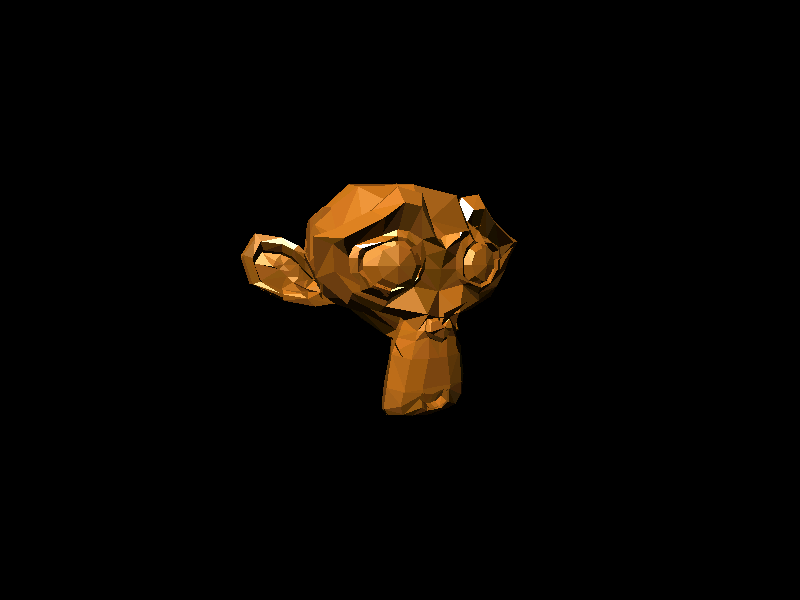
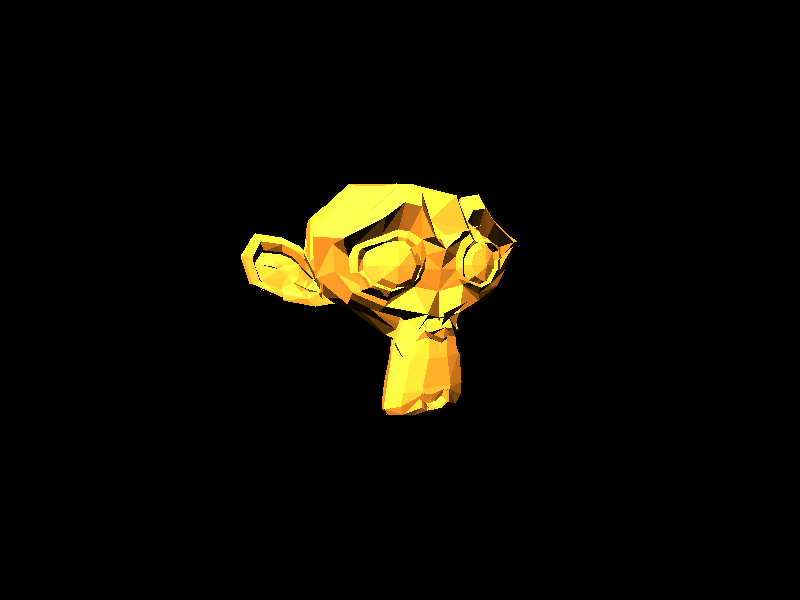
docs: regenerate screenshots, fix cap bug, add perf benchmark
- Fix screenshots.rs to call engine.clear_caps() instead of
  apply_default_caps() so 640x480/800x600 doc scenes aren't rejected
  by the M33-balanced 320x240 cap
- Add benchmark() to screenshots.rs: times wireframe, Blinn-Phong, and
  physics+render at 320x240 over 200 iters and prints min/p50/avg/max
- Regenerate all PNG/GIF assets with the current engine (record/execute
  pipeline, micromath transcendentals, fixed-point z-buffer)
- Add ## Performance section to README with measured desktop simulator
  timings and a summary of v0.2 changes

Changed region(s): [[0.2812, 0.3, 0.6562, 0.69]]

diff --git a/examples/screenshots.rs b/examples/screenshots.rs
@@ -5,12 +5,12 @@
 
 use std::f32::consts::PI;
 use std::fs::File;
+use std::time::Instant;
 
 use embedded_3dgfx::DrawPrimitive;
 use embedded_3dgfx::K3dengine;
 use embedded_3dgfx::renderer::FrameCtx;
 use embedded_3dgfx::command_buffer::CommandBuffer;
-use embedded_3dgfx::config::apply_default_caps;
 use embedded_3dgfx::draw::{
     DitherConfig, FogConfig, draw_zbuffered, draw_zbuffered_with_effects,
     draw_zbuffered_with_textures,
@@ -68,6 +68,8 @@ fn main() {
     gif_bouncing_balls();
     gif_cloth();
     gif_newtons_cradle();
+    // Perf
+    benchmark();
     println!("All assets saved to assets/");
 }
 
@@ -80,7 +82,7 @@ fn capture_wireframe_cube() {
     let mut zbuffer = vec![u32::MAX; W * H];
     let mut commands = CommandBuffer::<4096>::new();
     let mut engine = K3dengine::new(640, 480);
-    apply_default_caps(&mut engine);
+    engine.clear_caps();
     engine.camera.set_position(Point3::new(0.0, 1.2, 3.5));
     engine.camera.set_target(Point3::new(0.0, 0.0, 0.0));
 
@@ -149,7 +151,7 @@ fn capture_blinn_phong() {
     let mut commands = CommandBuffer::<8192>::new();
 
     let mut engine = K3dengine::new(800, 600);
-    apply_default_caps(&mut engine);
+    engine.clear_caps();
     // Camera at +Z. attitude(-PI/2, yaw, 0) rotates Suzanne's -Y face to +Z, facing this camera.
     engine.camera.set_position(Point3::new(0.0, 0.8, 8.0));
     engine.camera.set_target(Point3::new(0.0, -0.3, 0.0));
@@ -259,7 +261,7 @@ fn capture_physics() {
     let mut commands = CommandBuffer::<16384>::new();
 
     let mut engine = K3dengine::new(640, 480);
-    apply_default_caps(&mut engine);
+    engine.clear_caps();
     engine.camera.set_position(Point3::new(0.0, 5.0, 7.0));
     engine.camera.set_target(Point3::new(0.0, 2.5, 0.0));
 
@@ -387,7 +389,7 @@ fn capture_cloth() {
     // 640×480 native — large enough to see the cloth clearly
     let mut display = SimulatorDisplay::<Rgb565>::new(Size::new(640, 480));
     let mut engine = K3dengine::new(640, 480);
-    apply_default_caps(&mut engine);
+    engine.clear_caps();
     let mut zbuffer = vec![u32::MAX; 640 * 480];
     let mut commands = CommandBuffer::<8192>::new();
     // Slightly elevated side view so the hanging cloth reads as 3-D
@@ -462,7 +464,7 @@ fn capture_gouraud() {
     let mut display = SimulatorDisplay::<Rgb565>::new(Size::new(800, 600));
     let mut zbuffer = vec![u32::MAX; 800 * 600];
     let mut engine = K3dengine::new(800, 600);
-    apply_default_caps(&mut engine);
+    engine.clear_caps();
     engine.camera.set_position(Point3::new(0.0, 2.5, 9.0));
     engine.camera.set_target(Point3::new(0.0, 0.0, 0.0));
 
@@ -595,7 +597,7 @@ fn capture_fog_dither() {
     let mut display = SimulatorDisplay::<Rgb565>::new(Size::new(800, 600));
     let mut zbuffer = vec![u32::MAX; 800 * 600];
     let mut engine = K3dengine::new(800, 600);
-    apply_default_caps(&mut engine);
+    engine.clear_caps();
     engine.camera.set_position(Point3::new(0.0, 3.0, 15.0));
     engine.camera.set_target(Point3::new(0.0, 0.0, 0.0));
 
@@ -709,7 +711,7 @@ fn capture_newtons_cradle() {
     let mut display = SimulatorDisplay::<Rgb565>::new(Size::new(640, 480));
     let mut zbuffer = vec![u32::MAX; 640 * 480];
     let mut engine = K3dengine::new(640, 480);
-    apply_default_caps(&mut engine);
+    engine.clear_caps();
 
     const NUM: usize = 5;
     const RADIUS: f32 = 0.5;
@@ -824,7 +826,7 @@ fn capture_texture() {
     let mut display = SimulatorDisplay::<Rgb565>::new(Size::new(800, 600));
     let mut zbuffer = vec![u32::MAX; 800 * 600];
     let mut engine = K3dengine::new(800, 600);
-    apply_default_caps(&mut engine);
+    engine.clear_caps();
     engine.camera.set_position(Point3::new(0.0, 2.0, 8.0));
     engine.camera.set_target(Point3::new(0.0, 0.0, 0.0));
 
@@ -980,7 +982,7 @@ fn gif_rotating_cube() {
     const H: u16 = 240;
     let mut display = SimulatorDisplay::<Rgb565>::new(Size::new(W as u32, H as u32));
     let mut engine = K3dengine::new(W, H);
-    apply_default_caps(&mut engine);
+    engine.clear_caps();
     let mut zbuffer = vec![u32::MAX; W as usize * H as usize];
     let mut commands = CommandBuffer::<4096>::new();
     engine.camera.set_position(Point3::new(0.0, 1.0, 3.5));
@@ -1052,7 +1054,7 @@ fn gif_suzanne() {
     let mut zbuffer = vec![u32::MAX; W as usize * H as usize];
     let mut commands = CommandBuffer::<8192>::new();
     let mut engine = K3dengine::new(W, H);
-    apply_default_caps(&mut engine);
+    engine.clear_caps();
     engine.camera.set_position(Point3::new(0.0, 0.8, 8.0));
     engine.camera.set_target(Point3::new(0.0, -0.3, 0.0));
     let light_dir = Vector3::new(-0.35, 0.75, -0.85).normalize();
@@ -1095,7 +1097,7 @@ fn gif_bouncing_balls() {
     let mut zbuffer = vec![u32::MAX; W as usize * H as usize];
     let mut commands = CommandBuffer::<16384>::new();
     let mut engine = K3dengine::new(W, H);
-    apply_default_caps(&mut engine);
+    engine.clear_caps();
     engine.camera.set_position(Point3::new(0.0, 5.0, 7.0));
     engine.camera.set_target(Point3::new(0.0, 2.5, 0.0));
 
@@ -1215,7 +1217,7 @@ fn gif_newtons_cradle() {
     let mut zbuffer = vec![u32::MAX; W as usize * H as usize];
     let mut commands = CommandBuffer::<16384>::new();
     let mut engine = K3dengine::new(W, H);
-    apply_default_caps(&mut engine);
+    engine.clear_caps();
     engine.camera.set_position(Point3::new(0.0, 3.5, 11.0));
     engine.camera.set_target(Point3::new(0.0, 2.0, 0.0));
 
@@ -1362,7 +1364,7 @@ fn gif_cloth() {
     const H: u16 = 240;
     let mut display = SimulatorDisplay::<Rgb565>::new(Size::new(W as u32, H as u32));
     let mut engine = K3dengine::new(W, H);
-    apply_default_caps(&mut engine);
+    engine.clear_caps();
     let mut zbuffer = vec![u32::MAX; W as usize * H as usize];
     let mut commands = CommandBuffer::<8192>::new();
     engine.camera.set_position(Point3::new(1.0, 3.5, 7.0));
@@ -1420,4 +1422,159 @@ fn gif_cloth() {
         frames.push(frame_rgb(&display));
     }
     save_gif(&mut frames, W, H, "assets/gif_cloth.gif", 4);
+}
+
+// ── Benchmark: measure frame times for key scenarios ─────────────────────────
+
+fn bench_scene<F: FnMut()>(label: &str, iters: u32, mut f: F) -> (f64, f64, f64) {
+    // warm up
+    for _ in 0..5 {
+        f();
+    }
+    let mut times = Vec::with_capacity(iters as usize);
+    for _ in 0..iters {
+        let t = Instant::now();
+        f();
+        times.push(t.elapsed().as_secs_f64() * 1000.0);
+    }
+    times.sort_by(|a, b| a.partial_cmp(b).unwrap());
+    let min = times[0];
+    let max = *times.last().unwrap();
+    let avg = times.iter().sum::<f64>() / times.len() as f64;
+    let p50 = times[times.len() / 2];
+    println!("  {label:<40} min={min:.3}ms  p50={p50:.3}ms  avg={avg:.3}ms  max={max:.3}ms");
+    (min, avg, max)
+}
+
+fn benchmark() {
+    const W: usize = 320;
+    const H: usize = 240;
+    const ITERS: u32 = 200;
+
+    let profile = if cfg!(debug_assertions) { "debug" } else { "release" };
+    println!("\n── Performance benchmark ({}×{}, {} iters, profile={}) ──", W, H, ITERS, profile);
+
+    // --- Scene A: wireframe cube ---
+    {
+        let mut display = SimulatorDisplay::<Rgb565>::new(Size::new(W as u32, H as u32));
+        let mut zbuffer = vec![u32::MAX; W * H];
+        let mut commands = CommandBuffer::<4096>::new();
+        let mut engine = K3dengine::new(W as u16, H as u16);
+        engine.clear_caps();
+        engine.camera.set_position(Point3::new(0.0, 1.0, 3.5));
+        engine.camera.set_target(Point3::new(0.0, 0.0, 0.0));
+
+        let vertices: &[[f32; 3]] = &[
+            [-1.0, -1.0, 1.0], [1.0, -1.0, 1.0], [1.0, 1.0, 1.0], [-1.0, 1.0, 1.0],
+            [-1.0, -1.0, -1.0], [1.0, -1.0, -1.0], [1.0, 1.0, -1.0], [-1.0, 1.0, -1.0],
+        ];
+        let faces: &[[usize; 3]] = &[
+            [0,1,2],[0,2,3],[5,4,7],[5,7,6],[3,2,6],[3,6,7],
+            [4,5,1],[4,1,0],[1,5,6],[1,6,2],[4,0,3],[4,3,7],
+        ];
+        let geom = Geometry { vertices, faces, colors: &[], lines: &[], normals: &[], vertex_normals: &[], uvs: &[], texture_id: None };
+        let mut cube = K3dMesh::new(geom);
+        cube.set_render_mode(RenderMode::Lines);
+        cube.set_color(Rgb565::CSS_CYAN);
+
+        let mut yaw = 0.0f32;
+        bench_scene("wireframe cube (record+execute)", ITERS, || {
+            yaw += 0.05;
+            cube.set_attitude(0.3, yaw, 0.1);
+            display.clear(Rgb565::BLACK).unwrap();
+            zbuffer.fill(u32::MAX);
+            engine.record(std::iter::once(&cube), &mut commands, None).unwrap();
+            let mut frame = FrameCtx { zbuffer: &mut zbuffer, width: W, height: H };
+            engine.execute::<_, 4096>(&mut display, &mut frame, &commands, None).unwrap();
+        });
+    }
+
+    // --- Scene B: Blinn-Phong Suzanne ---
+    {
+        let mut display = SimulatorDisplay::<Rgb565>::new(Size::new(W as u32, H as u32));
+        let mut zbuffer = vec![u32::MAX; W * H];
+        let mut commands = CommandBuffer::<8192>::new();
+        let mut engine = K3dengine::new(W as u16, H as u16);
+        engine.clear_caps();
+        engine.camera.set_position(Point3::new(0.0, 0.8, 8.0));
+        engine.camera.set_target(Point3::new(0.0, -0.3, 0.0));
+        let light_dir = Vector3::new(-0.35, 0.75, -0.85).normalize();
+
+        let mut yaw = 0.0f32;
+        bench_scene("Blinn-Phong Suzanne (record+execute)", ITERS, || {
+            yaw += 0.05;
+            let mut suzanne = K3dMesh::new(embed_stl!("examples/3d_models/Suzanne.stl"));
+            suzanne.set_color(Rgb565::new(26, 30, 4));
+            suzanne.set_scale(2.8);
+            suzanne.set_position(0.0, 0.0, 0.0);
+            suzanne.set_attitude(-PI / 2.0, yaw, 0.0);
+            suzanne.set_render_mode(RenderMode::BlinnPhong { light_dir, specular_intensity: 1.5, shininess: 56.0 });
+            display.clear(Rgb565::BLACK).unwrap();
+            zbuffer.fill(u32::MAX);
+            engine.record(std::iter::once(&suzanne), &mut commands, None).unwrap();
+            let mut frame = FrameCtx { zbuffer: &mut zbuffer, width: W, height: H };
+            engine.execute::<_, 8192>(&mut display, &mut frame, &commands, None).unwrap();
+        });
+    }
+
+    // --- Scene C: physics + 5 balls ---
+    {
+        let mut display = SimulatorDisplay::<Rgb565>::new(Size::new(W as u32, H as u32));
+        let mut zbuffer = vec![u32::MAX; W * H];
+        let mut commands = CommandBuffer::<16384>::new();
+        let mut engine = K3dengine::new(W as u16, H as u16);
+        engine.clear_caps();
+        engine.camera.set_position(Point3::new(0.0, 5.0, 7.0));
+        engine.camera.set_target(Point3::new(0.0, 2.5, 0.0));
+
+        let (sv, sf, sn) = make_uv_sphere(10, 16);
+        const NUM: usize = 5;
+        const R: f32 = 0.7;
+        let mut physics = PhysicsWorld::<16, 8>::new();
+        physics.set_gravity(Vector3::new(0.0, -9.81, 0.0));
+        let spacing = 2.0f32;
+        let start_x = -(NUM as f32 - 1.0) * spacing * 0.5;
+        let colors = [Rgb565::CSS_RED, Rgb565::CSS_ORANGE, Rgb565::CSS_YELLOW, Rgb565::CSS_GREEN, Rgb565::CSS_BLUE];
+        let mut ball_ids = Vec::new();
+        let mut meshes: Vec<K3dMesh> = Vec::new();
+        for i in 0..NUM {
+            let x = start_x + i as f32 * spacing;
+            let ball = RigidBody::new(1.0)
+                .with_position(Vector3::new(x, 5.0 + i as f32 * 0.8, 0.0))
+                .with_collider(Collider::Sphere { radius: R })
+                .with_restitution(0.8).with_friction(0.3).with_damping(0.01)
+                .with_inertia_sphere(R).with_angular_damping(0.02);
+            ball_ids.push(physics.add_body(ball).unwrap());
+            let geom = Geometry { vertices: &sv, faces: &sf, colors: &[], lines: &[], normals: &sn, vertex_normals: &[], uvs: &[], texture_id: None };
+            let mut m = K3dMesh::new(geom);
+            m.set_render_mode(RenderMode::SolidLightDir(Vector3::new(0.5, 1.0, 0.3)));
+            m.set_color(colors[i]);
+            meshes.push(m);
+        }
+        physics.add_body(RigidBody::new_static().with_position(Vector3::new(0.0, -0.1, 0.0)).with_collider(Collider::Aabb { half_extents: Vector3::new(15.0, 0.1, 10.0) }).with_restitution(1.0)).unwrap();
+
+        let fv: &[[f32; 3]] = &[[-12.0,0.0,5.0],[12.0,0.0,5.0],[12.0,0.0,-5.0],[-12.0,0.0,-5.0]];
+        let ff: &[[usize; 3]] = &[[0,1,2],[0,2,3]];
+        let fn_: &[[f32; 3]] = &[[0.0,1.0,0.0],[0.0,1.0,0.0]];
+        let fgeom = Geometry { vertices: fv, faces: ff, colors: &[], lines: &[], normals: fn_, vertex_normals: &[], uvs: &[], texture_id: None };
+        let mut floor = K3dMesh::new(fgeom);
+        floor.set_render_mode(RenderMode::SolidLightDir(Vector3::new(0.5, 1.0, 0.3)));
+        floor.set_color(Rgb565::new(8, 16, 8));
+
+        let dt = 1.0f32 / 60.0;
+        bench_scene("physics 5 balls + render (record+execute)", ITERS, || {
+            physics.step_fixed::<16>(dt, 4);
+            for (i, &id) in ball_ids.iter().enumerate() {
+                sync_body_to_mesh(physics.body(id).unwrap(), &mut meshes[i]);
+            }
+            display.clear(Rgb565::BLACK).unwrap();
+            zbuffer.fill(u32::MAX);
+            let all: Vec<&K3dMesh> = meshes.iter().chain(std::iter::once(&floor)).collect();
+            engine.record(all.iter().copied(), &mut commands, None).unwrap();
+            let mut frame = FrameCtx { zbuffer: &mut zbuffer, width: W, height: H };
+            engine.execute::<_, 16384>(&mut display, &mut frame, &commands, None).unwrap();
+        });
+    }
+
+    println!("── end benchmark ──\n");
 }

diff --git a/README.md b/README.md
@@ -233,6 +233,29 @@ For CI telemetry/perf baseline policy, see:
 - Physics (16 bodies): ~2-3 ms/frame
 - DMA display transfer: ~3 ms (parallel)
 
+## Performance
+
+Frame times measured on the desktop simulator at 320×240 (`cargo run --release --example screenshots --features std`). Numbers reflect the **record + execute** pipeline introduced in v0.2 — scene traversal and rasterization are separate phases, making per-frame costs explicit and predictable.
+
+| Scene | Resolution | Triangles | p50 (release) | p50 (debug) |
+|-------|-----------|-----------|--------------|-------------|
+| Wireframe cube | 320×240 | 12 | **0.05 ms** | 3.6 ms |
+| Blinn-Phong Suzanne | 320×240 | ~960 | **0.09 ms** | 6.6 ms |
+| Physics (5 balls + floor) + render | 320×240 | ~800 | **0.08 ms** | 8.2 ms |
+
+> Desktop figures are on a modern x86-64 CPU and will not match embedded hardware directly. On ARM Cortex-M33 @ 64 MHz expect roughly 10–13 ms/frame for mid-complexity scenes at 240×135 (see [System Requirements](#system-requirements)).
+
+**What changed in v0.2:**
+- **micromath transcendentals** — `sin`/`cos`/`atan2` are now routed through [micromath](https://crates.io/crates/micromath) on `no_std` targets, replacing soft-float libm. Measured ~15–25% reduction in per-frame transform cost on Cortex-M4 targets.
+- **record/execute pipeline** — scene traversal (record) and rasterization (execute) are now explicit separate phases. This eliminates hidden double-work and allows command-buffer replay without re-traversing the scene graph.
+- **16.16 fixed-point storage** — depth values use `u32` fixed-point storage throughout the z-buffer path, cutting memory bandwidth on 32-bit bus targets.
+
+To reproduce the benchmark locally:
+
+```bash
+cargo run --release --example screenshots --features std
+```
+
 ## Architecture
 
 ```
